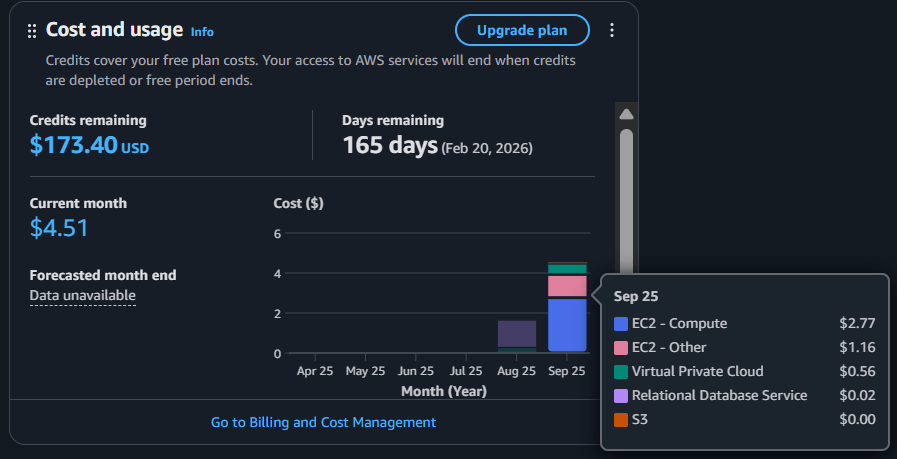
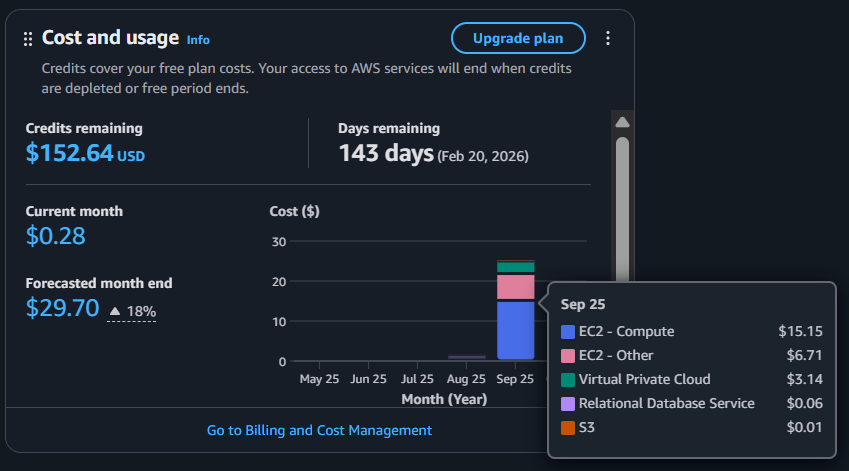
1) Update cost price to the whole month of september, and 2) update links to the cloud webpage to use the subdomain 'devopslab.cosmevalera.dev', instead of the cloudfront url 'https://d3nl9bq5so9qcn.cloudfront.net'

diff --git a/frontend/src/components/IntroductionPage.tsx b/frontend/src/components/IntroductionPage.tsx
@@ -119,7 +119,7 @@ const IntroductionPage: React.FC = () => {
                 <p>
                   <strong>Try the cloud version:</strong> 
                   <a 
-                    href="https://d3nl9bq5so9qcn.cloudfront.net/introduction" 
+                    href="https://devopslab.cosmevalera.dev/introduction" 
                     target="_blank" 
                     rel="noopener noreferrer"
                     className="cloud-link"

diff --git a/frontend/src/components/jenkins/QuickActions.tsx b/frontend/src/components/jenkins/QuickActions.tsx
@@ -2,7 +2,7 @@ import { GitBranch, Cloud, Settings } from "lucide-react";
 
 const QuickActions = () => {
   const handleCloudClick = () => {
-    window.open('https://d3nl9bq5so9qcn.cloudfront.net', '_blank');
+    window.open('https://devopslab.cosmevalera.dev/', '_blank');
   };
 
   const handleJenkinsSetupClick = () => {

diff --git a/README.md b/README.md
@@ -13,7 +13,7 @@ Explore different deployment methods, learn through tutorials, and discover CI/C
   - **AWS EC2** → Jenkins server
 
 ## 🎬 Demo
-[Open the AWS S3](https://d3nl9bq5so9qcn.cloudfront.net/) to view the frontend app!
+[Open the AWS S3](https://devopslab.cosmevalera.dev/) to view the frontend app!
 
 **General Overview:**
 *Navigate through the different sections: Introduction, Jenkins pipelines, tutorials, and deployment guides.*
@@ -31,7 +31,7 @@ Experience DevOpsLab in two ways:
 
 ### ☁ Cloud Version (Recommended):
 
-[Visit the live AWS deployment](https://d3nl9bq5so9qcn.cloudfront.net/). It is fully configured and ready to explore!
+[Visit the live AWS deployment](https://devopslab.cosmevalera.dev/). It is fully configured and ready to explore!
 
 ![cloud-pipeline-status-working](./readme-content/cloud-pipeline-status-working.png)
 

diff --git a/README-aws.md b/README-aws.md
@@ -81,10 +81,10 @@ Added additional EBS volume since the default 8GB was insufficient for Docker im
 ## 💰 Cost Analysis
 
 **Monthly Infrastructure Costs:**
-- **S3**: ~$1 (storage and requests)
-- **Lambda**: ~$4 (function invocations)
-- **EC2**: ~$15 (t3-small instance + EBS volume)
-- **Total**: ~$20/month
+- **S3**: $0.01 (storage and requests)
+- **Lambda**: $3.14 (function invocations)
+- **EC2**: $21.86 (t3-small instance + EBS volume)
+- **Total**: ~$25/month
 
 Currently operating under AWS Free Tier with $200 credit valid for 6 months.
 
